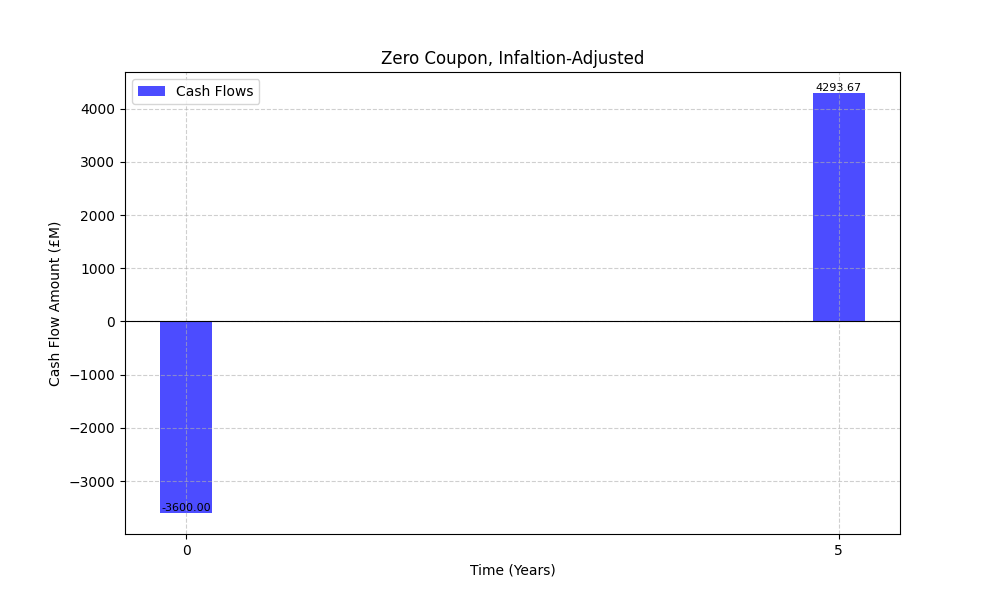
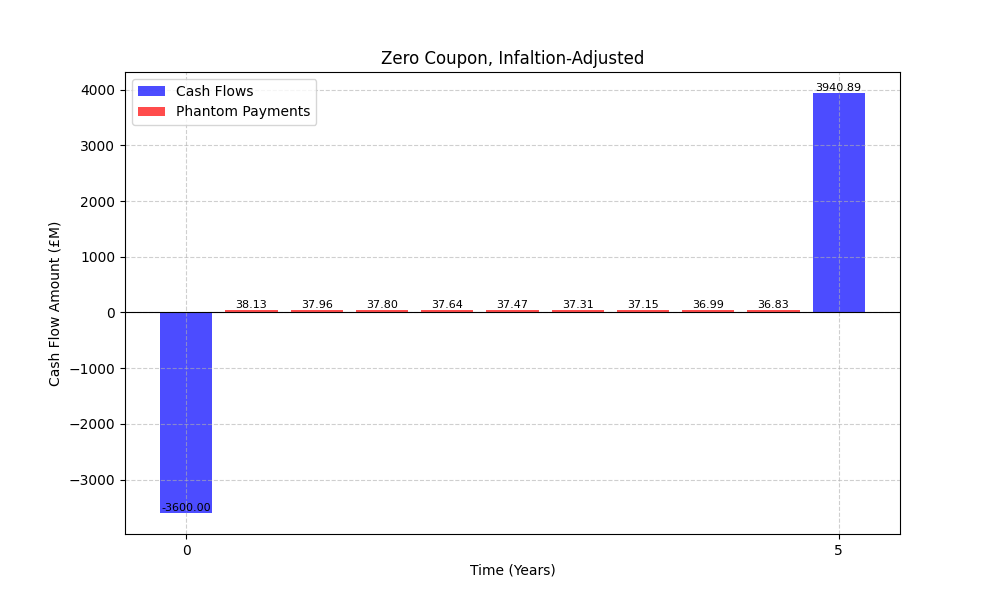
More examples

diff --git a/bonds/zero_coupon_bond.py b/bonds/zero_coupon_bond.py
@@ -1,5 +1,9 @@
 from bonds.base_bond import Bond
 
+import matplotlib.pyplot as plt
+import os
+import pandas as pd
+
 class ZeroCouponBond(Bond):
     """
     Base class for all bond types.
@@ -15,9 +19,8 @@ class ZeroCouponBond(Bond):
         :param discount_rate_model: The discount rate model to use for cash flow calculations.
                                     Must implement a `get_discount_rates(times)` method.
         """
-        super().__init__(face_value, price, maturity, inflation_model)
+        super().__init__(face_value, payment_frequency, price, maturity, inflation_model)
         self.tax_rate = tax_rate # tax rate in percent
-        self.payment_frequency = payment_frequency
         self.ytm = (self.face_value / self.price) ** (1 / (self.maturity * self.payment_frequency)) - 1 # ytm as a float
 
     def calculate_cash_flows(self) -> list:
@@ -32,19 +35,108 @@ class ZeroCouponBond(Bond):
 
         :return: A list of tuples (time_period, cash_flow).
         """
-        cash_flows = [(0, -self.price)]
-        n_periods = int(self.maturity * self.payment_frequency)
-
-
-        taxable_income = 0
-
-        for t in range(1, n_periods):
-            taxable_income += (1 + self.ytm) ** (t - 1)
-
-        taxable_income *= self.ytm * self.price
-
-        # Add face value repayment and final coupon payment at maturity
-        cash_flows.append((self.maturity, taxable_income + self.face_value))
+        cash_flows = [(0, -self.price), (self.maturity, self.face_value)]
 
         return cash_flows
+    
+    def calculate_phantom_payments(self) -> list:
+        phantom_payments = []
+        n_periods = int(self.maturity * self.payment_frequency)
+        
+        for t in range(1, n_periods):
+            cash_flow = self.ytm * self.price * (1 + self.ytm) ** (t - 1)
+            phantom_payments.append((t / self.payment_frequency, cash_flow))
+
+        return phantom_payments
+    
+    def calculate_pv_of_phantom_payments(self):
+        phantom_payments = self.calculate_phantom_payments()
+        times = [time for time, _ in phantom_payments]  # Extract times from cash flows
+        discount_rates = self.inflation_model.get_discount_rates(times)  # Get discount rates for all times
+
+        # Compute the cumulative discount factor over time
+        cumulative_discount_factors = [1]  # Start with 1 for time = 0
+        for i in range(1, len(discount_rates)):
+            cumulative_discount_factors.append(cumulative_discount_factors[-1] * (1 + discount_rates[i]) ** -1)
+
+        # Apply discounting correctly
+        present_values = [
+            (time, cash_flow * cumulative_discount_factor)
+            for (time, cash_flow), cumulative_discount_factor in zip(phantom_payments, cumulative_discount_factors)
+        ]
+
+        return present_values
+
+    
+    def plot_cash_flows(bond, title="Cash Flows", filepath="_data/graphs/", inflation_adjusted=False):
+        """
+        Plot the cash flow diagram for a bond and save the plots to separate files.
+
+        :param bond: The bond object.
+        :param filepath: The directory where the plots will be saved (default: '_data/graphs/').
+        :param inflation_adjusted: Whether to plot inflation-adjusted cash flows and discount rates.
+        """
+        if inflation_adjusted:
+            cash_flows = bond.calculate_pv_of_cash_flows()
+            phantom_flows = bond.calculate_pv_of_phantom_payments()
+        else:
+            cash_flows = bond.calculate_cash_flows()
+            phantom_flows = bond.calculate_phantom_payments()
+
+        print(cash_flows)
+
+        times = [cf[0] for cf in cash_flows]
+        amounts = [round(cf[1], 2) for cf in cash_flows]
+        phantom_times = [ph[0] for ph in phantom_flows]
+        phantom = [round(ph[1], 2) for ph in phantom_flows]
+
+        # Create the directory if it doesn't exist
+        os.makedirs(filepath, exist_ok=True)
+        
+        # Generate the base filename
+        if inflation_adjusted:
+            filename_base = f"{bond.__class__.__name__[:5]}-{bond.inflation_model.__class__.__name__[:5]}-{bond.face_value}"
+        else:
+            filename_base = f"{bond.__class__.__name__[:5]}-not_adjusted-{bond.face_value}"
+
+        # Plot cash flows and cumulative sum
+        fig1, ax1 = plt.subplots(figsize=(10, 6))
+        bars = ax1.bar(times, amounts, width=0.4, color='blue', alpha=0.7, label="Cash Flows")
+        red_bars = ax1.bar(phantom_times, phantom, width=0.4, color='red', alpha=0.7, label="Phantom Payments")
+        for bar in bars:
+            height = bar.get_height()
+            ax1.text(bar.get_x() + bar.get_width() / 2, height, f'{height:.2f}', ha='center', va='bottom', fontsize=8)
+        for bar in red_bars:
+            height = bar.get_height()
+            ax1.text(bar.get_x() + bar.get_width() / 2, height, f'{height:.2f}', ha='center', va='bottom', fontsize=8)
+
+
+        ax1.axhline(0, color='black', linewidth=0.8)
+        ax1.set_xlabel("Time (Years)", fontsize=10)
+        ax1.set_ylabel("Cash Flow Amount (£M)", fontsize=10)
+        ax1.grid(True, linestyle='--', alpha=0.6)
+        ax1.set_xticks(times)
+        ax1.set_title(title, fontsize=12)
+        ax1.legend(loc="upper left")
+
+        # Save the cash flow plot
+        cash_flow_filename = os.path.join(filepath, f"{filename_base}-cash_flows.png")
+        fig1.savefig(cash_flow_filename)
+        plt.close(fig1)
+
+        # Plot discount rates if inflation_adjusted is True
+        if inflation_adjusted:
+            discount_rates = bond.inflation_model.get_discount_rates(times)
+            fig2, ax2 = plt.subplots(figsize=(10, 6))
+            ax2.plot(times, discount_rates, color='red', marker='o', label="Discount Rate")
+            ax2.set_xlabel("Time (Years)", fontsize=10)
+            ax2.set_ylabel("Discount Rate (%)", color='red', fontsize=10)
+            ax2.tick_params(axis='y', labelcolor='red')
+            ax2.grid(True, linestyle='--', alpha=0.6)
+            ax2.set_title("Discount Rates Over Time", fontsize=12)
+
+            # Save the discount rate plot
+            discount_rate_filename = os.path.join(filepath, f"{filename_base}-discount_rates.png")
+            fig2.savefig(discount_rate_filename)
+            plt.close(fig2)
 

diff --git a/bonds/base_bond.py b/bonds/base_bond.py
@@ -7,7 +7,7 @@ class Bond:
     Base class for all bond types.
     """
 
-    def __init__(self, face_value: float, price: float, maturity: float, inflation_model):
+    def __init__(self, face_value: float, payment_frequency: int, price: float, maturity: float, inflation_model):
         """
         Initialize a bond with common attributes.
 
@@ -18,6 +18,7 @@ class Bond:
                                     Must implement a `get_discount_rates(times)` method.
         """
         self.face_value = face_value
+        self.payment_frequency = payment_frequency
         self.price = price
         self.maturity = maturity
         self.inflation_model = inflation_model
@@ -118,7 +119,7 @@ class Bond:
             fig2.savefig(discount_rate_filename)
             plt.close(fig2)
 
-    def get_bond_data_table(self) -> pd.DataFrame:
+    def table_cash_flows(self) -> pd.DataFrame:
         """
         Create a DataFrame with the bond's cash flow data, including:
         - Time (Years)

diff --git a/bonds/partially_amortizing_bond.py b/bonds/partially_amortizing_bond.py
@@ -15,9 +15,8 @@ class PartiallyAmortizingBond(Bond):
         :param discount_rate_model: The discount rate model to use for cash flow calculations.
                                     Must implement a `get_discount_rates(times)` method.
         """
-        super().__init__(face_value, price, maturity, inflation_model)
+        super().__init__(face_value, payment_frequency, price, maturity, inflation_model)
         self.coupon_rate = coupon_rate
-        self.payment_frequency = payment_frequency
         self.baloon_payment = baloon_payment
 
     def calculate_cash_flows(self) -> list:

diff --git a/bonds/fixed_rate_bond.py b/bonds/fixed_rate_bond.py
@@ -17,9 +17,8 @@ class FixedRateBond(Bond):
         :param payment_frequency: The number of coupon payments per year.
         :param interest_rate_model: The interest rate model to use for cash flow calculations.
         """
-        super().__init__(face_value, price, maturity, inflation_model)
+        super().__init__(face_value, payment_frequency, price, maturity, inflation_model)
         self.coupon_rate = coupon_rate
-        self.payment_frequency = payment_frequency
 
     def calculate_cash_flows(self) -> list:
         """

diff --git a/tests/test_fixed_rate_bond.py b/tests/test_fixed_rate_bond.py
@@ -91,7 +91,7 @@ class TestFixedRateBond(unittest.TestCase):
             inflation_model=self.constant_model
         )
 
-        bond_data_table = bond.get_bond_data_table()
+        bond_data_table = bond.table_cash_flows()
         self.assertEqual(len(bond_data_table), 11)  # 10 coupon payments + 1 final payment
         self.assertEqual(bond_data_table.columns.tolist(), [
             "Time (Years)", "Nominal Cash Flow", "Real Cash Flow", "Real Net Cash", "Discount Rate"

diff --git a/examples/adjusted_vasicek_example.py b/examples/adjusted_vasicek_example.py
@@ -22,5 +22,5 @@ bond = FixedRateBond(
 
 # Plot inflation-adjusted cash flows
 bond.plot_cash_flows(inflation_adjusted=True)
-bond_table = bond.get_bond_data_table()
+bond_table = bond.table_cash_flows()
 bond_table.to_csv("_data/csv/vasicek_adjusted.csv", index=False)

diff --git a/examples/tabulate_linear_inflation_example.py b/examples/tabulate_linear_inflation_example.py
@@ -18,7 +18,7 @@ bond = FixedRateBond(
 )
 
 # Get the bond data table
-bond_data_table = bond.get_bond_data_table()
+bond_data_table = bond.table_cash_flows()
 
 # Display the table
 print("Bond Data Table with Linear Inflation Model:")

diff --git a/examples/table_example.py b/examples/table_example.py
@@ -15,7 +15,7 @@ bond = FixedRateBond(
 )
 
 # Get the bond data table
-bond_data_table = bond.get_bond_data_table()
+bond_data_table = bond.table_cash_flows()
 
 # Display the table
 print("Bond Data Table:")

diff --git a/inflation_models/discount_rate_model.py b/inflation_models/discount_rate_model.py
@@ -6,7 +6,6 @@ class DiscountRateModel:
 
         :param rate: The constant discount rate.
         """
-        self.rate = rate
 
     def get_discount_rates(self, times: list) -> list:
         """

diff --git a/TODO.md b/TODO.md
@@ -1,0 +1,3 @@
+
+
+* Add phantom payments on zero coupon bar chart
